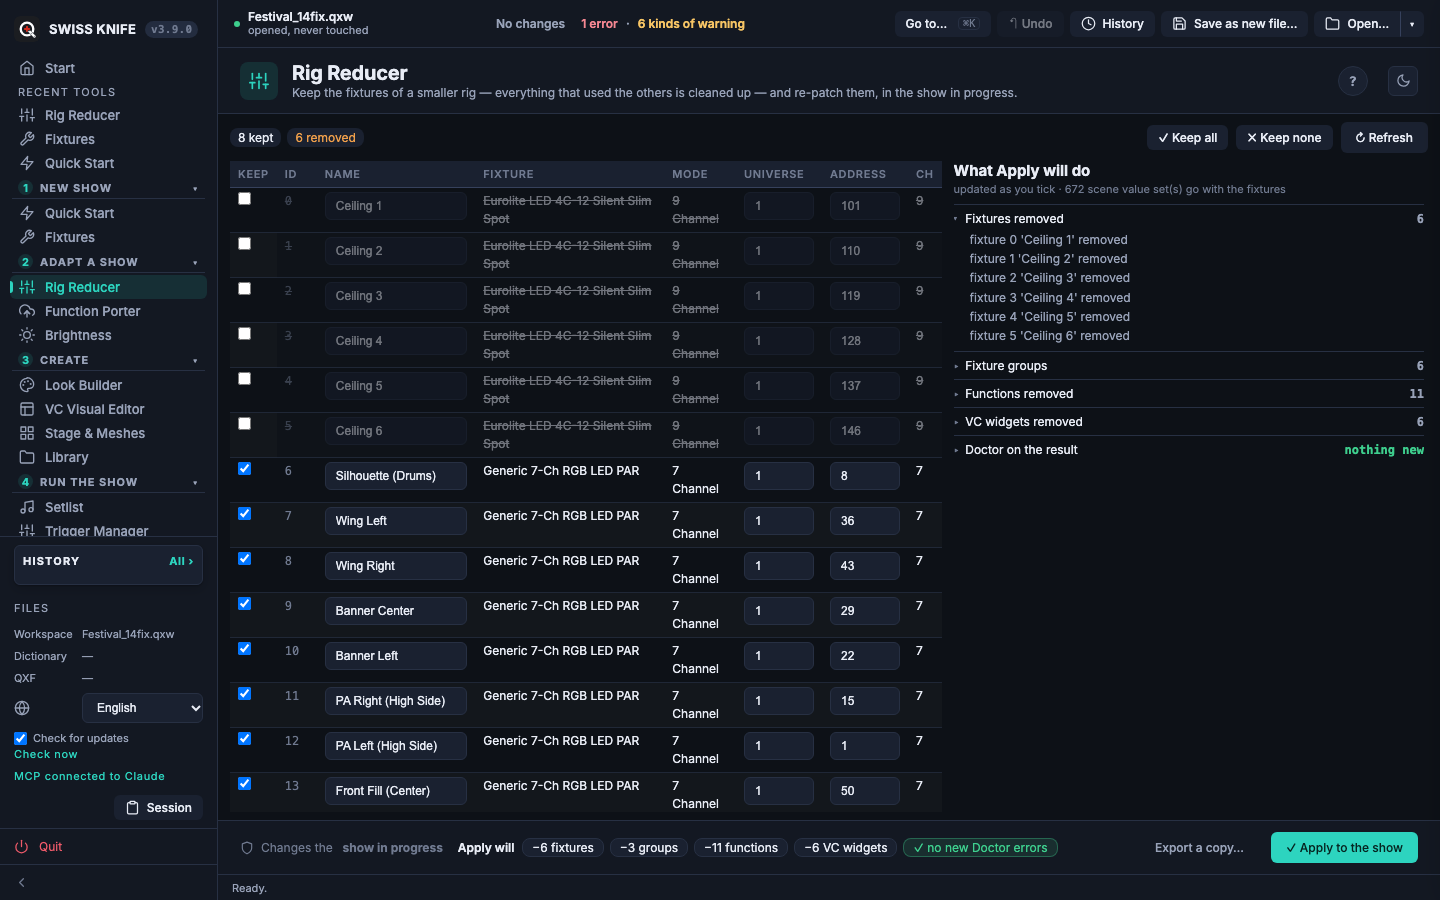
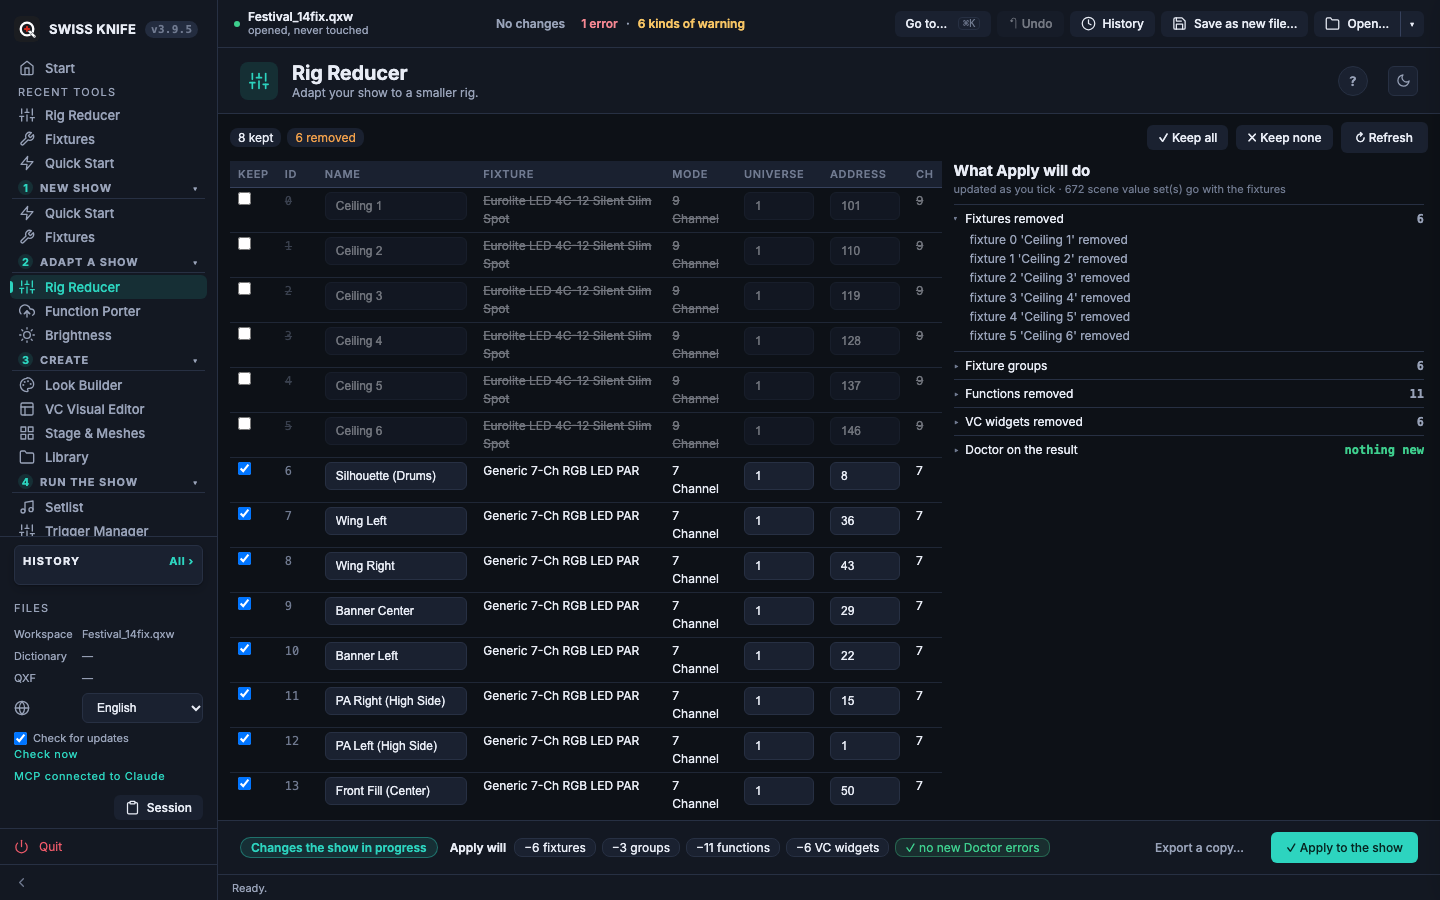
Translate the footer summary chips (skPlural, one key per singular and plural form)
Claude-Session: https://claude.ai/code/session_016Cr5sHoov9n2cvg6qbhpug

Changed region(s): [[0.1562, 0.9333, 0.7188, 0.9644], [0.2188, 0.0933, 0.6875, 0.1244]]

diff --git a/static/js/porter.js b/static/js/porter.js
@@ -268,11 +268,11 @@ function _pSyncOutcome() {
   if (_pStep === 2) {
     if (!nFn && !nCopy) return setOutcome(n, 'nothing yet — tick pages, frames, buttons or functions', '', 'Apply will do');
     const chips = [];
-    if (nFn) chips.push(`port ${nFn} function${nFn > 1 ? 's' : ''}`);
-    if (_pVcScope.length) chips.push(`${_pVcScope.length} VC widget${_pVcScope.length > 1 ? 's' : ''}`);
-    if (_pCopyFx.size) chips.push(`copy ${_pCopyFx.size} fixture${_pCopyFx.size > 1 ? 's' : ''}`);
-    if (_pCopyGrp.size) chips.push(`copy ${_pCopyGrp.size} group${_pCopyGrp.size > 1 ? 's' : ''}`);
-    if (_pCopyMsh.size) chips.push(`copy ${_pCopyMsh.size} mesh${_pCopyMsh.size > 1 ? 'es' : ''}`);
+    if (nFn) chips.push(skPlural(nFn, 'port {0} function', 'port {0} functions'));
+    if (_pVcScope.length) chips.push(skPlural(_pVcScope.length, '{0} VC widget', '{0} VC widgets'));
+    if (_pCopyFx.size) chips.push(skPlural(_pCopyFx.size, 'copy {0} fixture', 'copy {0} fixtures'));
+    if (_pCopyGrp.size) chips.push(skPlural(_pCopyGrp.size, 'copy {0} group', 'copy {0} groups'));
+    if (_pCopyMsh.size) chips.push(skPlural(_pCopyMsh.size, 'copy {0} mesh', 'copy {0} meshes'));
     return setOutcome(n, chips, '', 'Apply will');
   }
   if (_pStep === 3) {
@@ -281,28 +281,28 @@ function _pSyncOutcome() {
     const mapped = ids.filter(id => (_pFixMapping[id] || _pFixMapping[String(id)] || []).length).length;
     const open = ids.length - skipped - mapped;
     const chips = [];
-    if (ids.length) chips.push({ text: `${mapped} of ${ids.length} fixture${ids.length > 1 ? 's' : ''} mapped`, kind: open > 0 && !_pDropUnmapped ? 'warn' : '' });
-    if (skipped) chips.push(`${skipped} not ported`);
+    if (ids.length) chips.push({ text: skPlural(ids.length, '{1} of {0} fixture mapped', '{1} of {0} fixtures mapped', mapped), kind: open > 0 && !_pDropUnmapped ? 'warn' : '' });
+    if (skipped) chips.push(t('{0} not ported', skipped));
     const noExact = ids.filter(id => !_pSkipFx.has(id) && !_pSkipFx.has(String(id)) &&
       !(((_pCandidates && _pCandidates.candidates[id]) || {}).tier1 || []).length).length;
-    if (noExact) chips.push(`${noExact} without exact match`);
-    if (open > 0 && !_pDropUnmapped) chips.push({ text: `${open} without a target`, kind: 'warn' });
-    if (nCopy) chips.push(`${_pCopyFx.size} fixture${_pCopyFx.size === 1 ? '' : 's'} copied`);
+    if (noExact) chips.push(t('{0} without exact match', noExact));
+    if (open > 0 && !_pDropUnmapped) chips.push({ text: t('{0} without a target', open), kind: 'warn' });
+    if (nCopy) chips.push(skPlural(_pCopyFx.size, '{0} fixture copied', '{0} fixtures copied'));
     return chips.length ? setOutcome(n, chips, '', 'Apply will') : setOutcome(n, 'nothing to map', '', 'Apply will do');
   }
   if (_pStep === 4) {
     const v = _pValidation;
     if (!v) return setOutcome(n, 'checking the plan…', '', 'Apply will');
     const chips = [];
-    if (v.errors.length) chips.push({ text: `${v.errors.length} error${v.errors.length > 1 ? 's' : ''} to fix first`, kind: 'error' });
-    else chips.push(`port ${nFn} function${nFn === 1 ? '' : 's'} into ${where}`);
-    if (v.warnings.length) chips.push({ text: `${v.warnings.length} warning${v.warnings.length > 1 ? 's' : ''}`, kind: 'warn' });
+    if (v.errors.length) chips.push({ text: skPlural(v.errors.length, '{0} error to fix first', '{0} errors to fix first'), kind: 'error' });
+    else chips.push(skPlural(nFn, 'port {0} function into {1}', 'port {0} functions into {1}', where));
+    if (v.warnings.length) chips.push({ text: skPlural(v.warnings.length, '{0} warning', '{0} warnings'), kind: 'warn' });
     return setOutcome(n, chips, v.errors.length ? 'error' : '', v.errors.length ? 'Blocked:' : 'Apply will');
   }
   if (_pStep === 5) {
     if (_pExported) return;
-    const chips = [`port ${nFn} function${nFn === 1 ? '' : 's'}`];
-    if (nCopy) chips.push(`copy ${nCopy} fixture/group${nCopy > 1 ? 's' : ''}`);
+    const chips = [skPlural(nFn, 'port {0} function', 'port {0} functions')];
+    if (nCopy) chips.push(skPlural(nCopy, 'copy {0} fixture/group', 'copy {0} fixtures/groups'));
     chips.push(_pTgtShow ? 'one History step' : 'write a new file');
     return setOutcome(n, chips, '', 'Apply will');
   }

diff --git a/static/js/app.js b/static/js/app.js
@@ -68,16 +68,19 @@ const _LAZY = {
 /** The footer of a tool says what its main button will do (v2.2 UI review:
  *  "what happens if I press Apply?"), next to the button.  *parts*: a string
  *  or a list of chips; *kind*: '' · 'ok' · 'warn' · 'error'. */
+/** Singular or plural form of a counted phrase, each form its own translation key: skPlural(n, one, many, ...more) */
+function skPlural(n, one, many, ...more) { return t(n === 1 ? one : many, n, ...more); }
+
 function setOutcome(screen, parts, kind = '', lead = 'Apply will') {
   const el = document.getElementById('oc-' + screen);
   if (!el) return;
   if (!parts || (Array.isArray(parts) && !parts.length)) { el.innerHTML = ''; el.className = 'out-outcome'; return; }
   const esc = t => String(t).replace(/[&<>]/g, c => ({ '&': '&amp;', '<': '&lt;', '>': '&gt;' }[c]));
   const body = Array.isArray(parts)
-    ? parts.map(p => typeof p === 'string' ? `<span class="oc-chip">${esc(p)}</span>`
-      : `<span class="oc-chip oc-${p.kind || ''}">${esc(p.text)}</span>`).join('')
-    : `<span>${esc(parts)}</span>`;
-  el.innerHTML = (lead ? `<b>${esc(lead)}</b>` : '') + body;
+    ? parts.map(p => typeof p === 'string' ? `<span class="oc-chip">${esc(t(p))}</span>`
+      : `<span class="oc-chip oc-${p.kind || ''}">${esc(t(p.text))}</span>`).join('')
+    : `<span>${esc(t(parts))}</span>`;
+  el.innerHTML = (lead ? `<b>${esc(t(lead))}</b>` : '') + body;
   el.className = 'out-outcome' + (kind ? ' oc-' + kind : '');
 }
 

diff --git a/static/js/reducer.js b/static/js/reducer.js
@@ -170,12 +170,12 @@ async function reducerPreview(auto) {
           `<li>${doc.total_errors} error(s), ${doc.total_warnings} warning(s) in all — none of them caused by this step</li>`}</ul></details>`;
     const ren = Object.values(_rrEdit).length;
     const chips = [];
-    if (c.fixtures) chips.push(`−${c.fixtures} fixture${c.fixtures > 1 ? 's' : ''}`);
-    if (c.groups) chips.push(`−${c.groups} group${c.groups > 1 ? 's' : ''}`);
-    if (c.functions) chips.push(`−${c.functions} function${c.functions > 1 ? 's' : ''}`);
-    if (c.widgets) chips.push(`−${c.widgets} VC widget${c.widgets > 1 ? 's' : ''}`);
-    if (ren) chips.push(`${ren} renamed / re-patched`);
-    chips.push(newBad ? { text: `${newBad} new Doctor error(s)`, kind: 'error' }
+    if (c.fixtures) chips.push(skPlural(c.fixtures, '−{0} fixture', '−{0} fixtures'));
+    if (c.groups) chips.push(skPlural(c.groups, '−{0} group', '−{0} groups'));
+    if (c.functions) chips.push(skPlural(c.functions, '−{0} function', '−{0} functions'));
+    if (c.widgets) chips.push(skPlural(c.widgets, '−{0} VC widget', '−{0} VC widgets'));
+    if (ren) chips.push(t('{0} renamed / re-patched', ren));
+    chips.push(newBad ? { text: t('{0} new Doctor error(s)', newBad), kind: 'error' }
       : { text: '✓ no new Doctor errors', kind: 'ok' });
     setOutcome('reducer', chips, newBad ? 'error' : '');
     if (!auto) setStatus('Preview ready.', 'ok');

diff --git a/static/js/setlist.js b/static/js/setlist.js
@@ -514,9 +514,9 @@ function _updateSongCount() {
     const n = _songRows.length, ok = _songRows.filter(r => r.qxw_id).length;
     const dark = _songRows.filter(r => r.qxw_id && (_functions.find(f => f.id === r.qxw_id) || {}).dark).length;
     setOutcome('setlist', !n ? 'nothing yet — pick a slot and add songs' : [
-      `${ok} cue${ok !== 1 ? 's' : ''} in the cue list`,
-      ...(n - ok ? [{ text: `${n - ok} song${n - ok > 1 ? 's' : ''} without a function — left out`, kind: 'warn' }] : []),
-      ...(dark ? [{ text: `${dark} light${dark > 1 ? '' : 's'} nothing`, kind: 'warn' }] : []),
+      skPlural(ok, '{0} cue in the cue list', '{0} cues in the cue list'),
+      ...(n - ok ? [{ text: skPlural(n - ok, '{0} song without a function — left out', '{0} songs without a function — left out'), kind: 'warn' }] : []),
+      ...(dark ? [{ text: skPlural(dark, '{0} lights nothing', '{0} light nothing'), kind: 'warn' }] : []),
     ], '', n ? 'Apply will put' : 'Apply will do');
   }
   const el = document.getElementById('song-count');

diff --git a/static/js/brightness.js b/static/js/brightness.js
@@ -362,9 +362,9 @@ function _brtSetPreview(stats) {
   if (!el) return;
   if (!stats) { el.textContent = ''; el.className = 'brt-preview-count'; setOutcome('brightness', ''); return; }
   const { fixtures_active: f, scenes: s, values: v } = stats;
-  setOutcome('brightness', v ? [`${f} fixture${f !== 1 ? 's' : ''}`, `${s} scene${s !== 1 ? 's' : ''}`, `${v} value${v !== 1 ? 's' : ''}`]
+  setOutcome('brightness', v ? [skPlural(f, '{0} fixture', '{0} fixtures'), skPlural(s, '{0} scene', '{0} scenes'), skPlural(v, '{0} value', '{0} values')]
     : 'nothing yet — move a slider', '', v ? 'Apply will change' : 'Apply will do');
-  el.textContent = `${f} fixture${f!==1?'s':''}, ${s} scene${s!==1?'s':''}, ${v} value${v!==1?'s':''} will change`;
+  el.textContent = t('{0} will change', [skPlural(f, '{0} fixture', '{0} fixtures'), skPlural(s, '{0} scene', '{0} scenes'), skPlural(v, '{0} value', '{0} values')].join(', '));
   el.className   = `brt-preview-count ${v > 0 ? 'brt-preview-active' : ''}`;
 }
 

diff --git a/static/js/doctor.js b/static/js/doctor.js
@@ -192,7 +192,7 @@ function _docSyncButton() {
     for (const k of _docSel) { const c = String(k).split('|')[0]; by[c] = (by[c] || 0) + 1; }
     const codes = Object.keys(by).sort();
     setOutcome('doctor', codes.length ? codes.slice(0, 6).map(c => `${c} × ${by[c]}`)
-      .concat(codes.length > 6 ? [`+${codes.length - 6} more kinds`] : []) : 'nothing — tick the findings to fix',
+      .concat(codes.length > 6 ? [t('+{0} more kinds', codes.length - 6)] : []) : 'nothing — tick the findings to fix',
       '', codes.length ? 'Apply will fix' : 'Apply will do');
   }
 }

diff --git a/tests/test_ui_lint.py b/tests/test_ui_lint.py
@@ -200,3 +200,24 @@ def test_the_stage_e_sentences_are_translated_in_all_seven_languages():
         d = json.load(open(f, encoding="utf-8"))
         miss = [s for s in heads + plain if s not in d and "Tablet" not in s]
         assert not miss, (os.path.basename(f), miss[:3])
+
+
+# ── the footer summary chips are translated (3.9.5) ─────────────────────────
+
+def test_summary_chips_use_skplural_not_english_suffixes():
+    for name in ("porter.js", "reducer.js", "brightness.js", "setlist.js"):
+        bad = [l.strip() for l in JS[name].splitlines()
+               if ("chips.push" in l or "setOutcome(" in l) and re.search(r"\$\{[^}]*\?\s*'(?:s|es)'\s*:\s*''\}", l)]
+        assert not bad, (name, bad[:2])
+
+
+def test_every_skplural_pair_is_translated_in_all_seven_languages():
+    keys = set()
+    for text in JS.values():
+        for m in re.finditer(r"skPlural\([^,]+,\s*'([^']+)',\s*'([^']+)'", text):
+            keys.update(m.groups())
+    assert len(keys) >= 40, len(keys)
+    for f in glob.glob(str(ROOT / "static" / "i18n" / "*.json")):
+        d = json.load(open(f, encoding="utf-8"))
+        miss = sorted(k for k in keys if k not in d)
+        assert not miss, (os.path.basename(f), miss[:4])

diff --git a/CHANGELOG.md b/CHANGELOG.md
@@ -84,6 +84,7 @@ No change to `core/`, to the API routes or to what any button writes.
 - **Every Workspace Doctor rule has a plain meaning** under its title, in everyday words ("Two fixtures use the same DMX channels."). The technical title and the rule ID stay.
 - All new sentences are in the seven languages. `tests/test_ui_lint.py` checks the header length, the tooltip length, that every rule has its meaning and that the new texts are translated.
 - Tool names are unchanged: no rename was confirmed. Empty states keep their wording.
+- **The footer summary chips are translated.** "port 3 functions", "2 of 5 fixtures mapped", "−2 groups" and the other counted chips of Function Porter, Rig Reducer, Brightness and Setlist now have one translation per singular and plural form (`skPlural()` in `app.js`), and `setOutcome()` translates the lead and the words. A test keeps every form translated in the seven languages.
 
 ### Added
 
